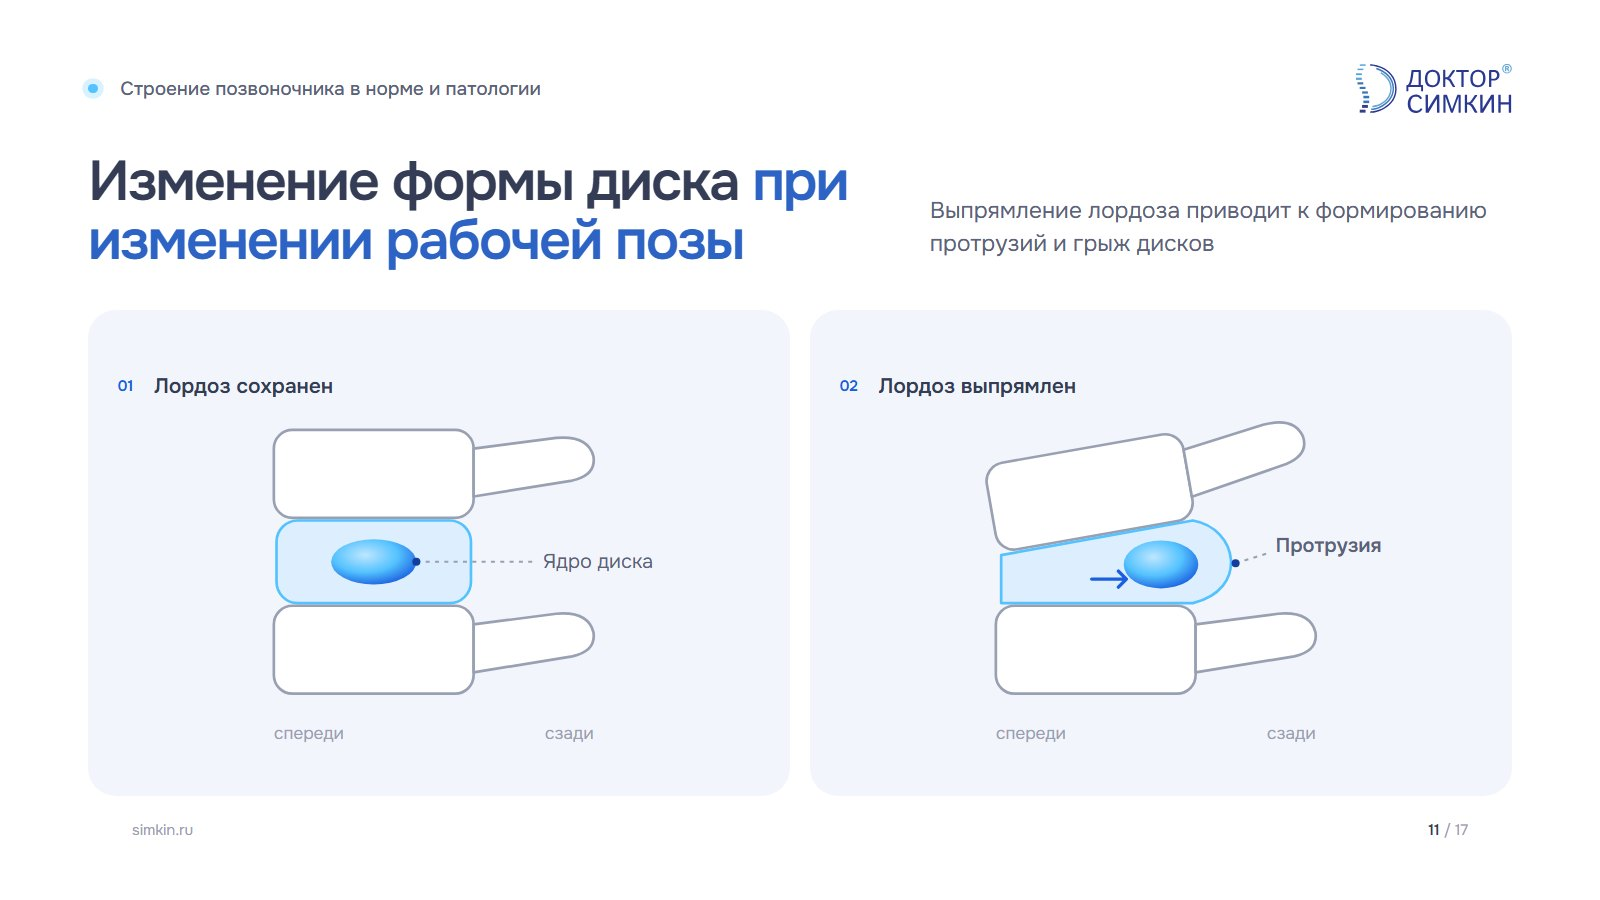
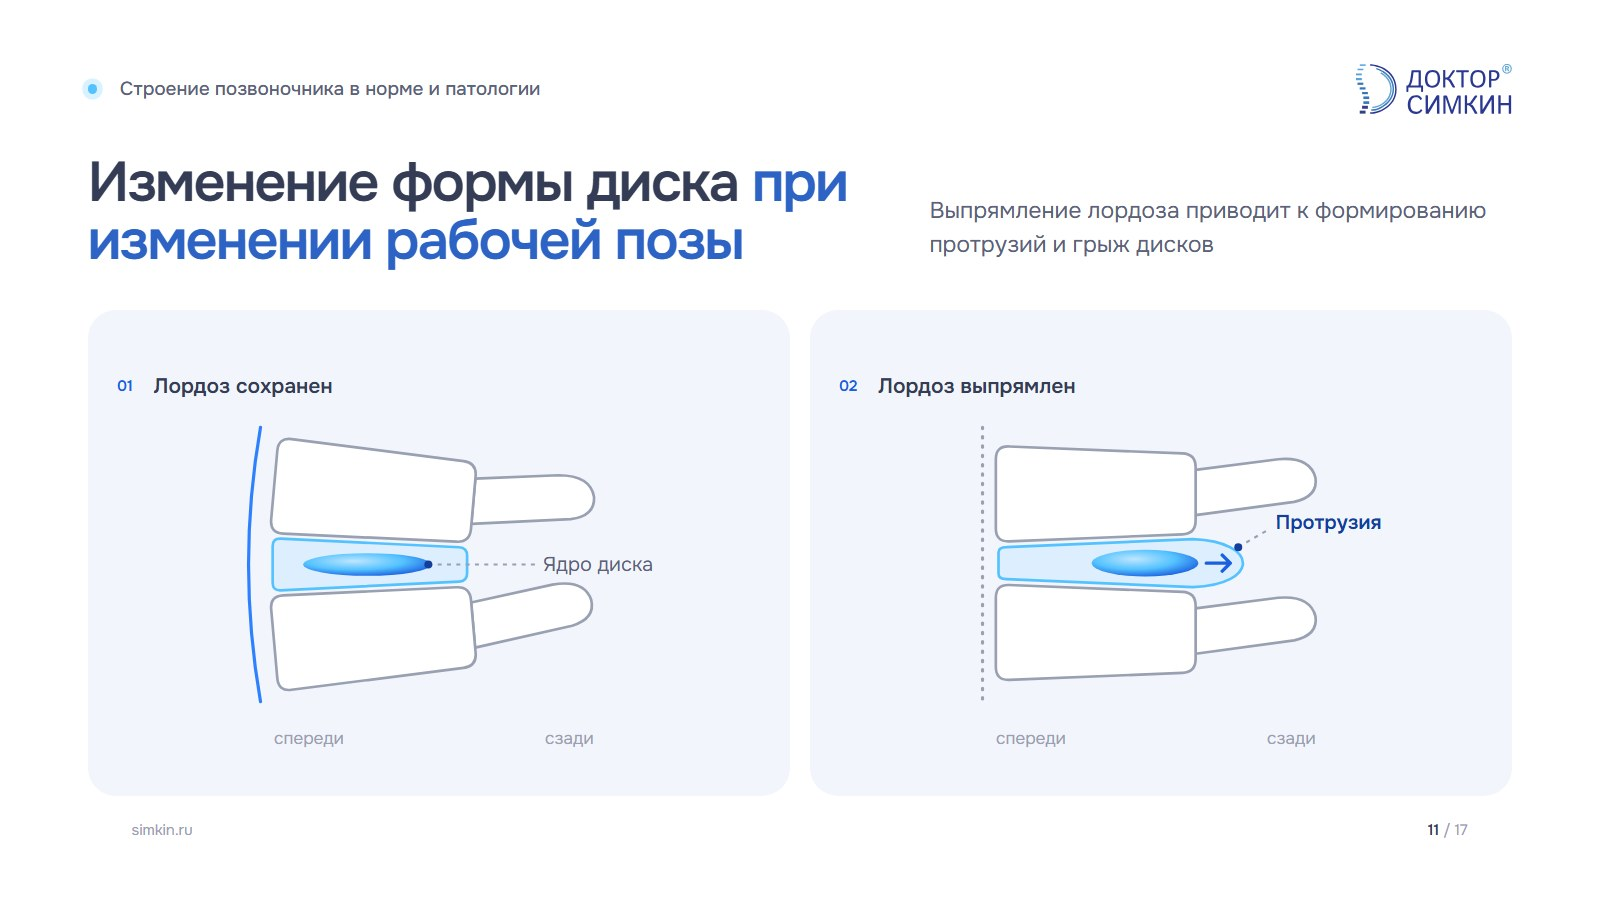
Слайд «Изменение формы диска»: правки заказчика
Ядро шире, диск ниже, передняя часть тела позвонка выше задней,
лордоз обозначен дугой (при выпрямлении дуги нет), стрелка смещения
ядра справа от него. Картинка на странице курса перерендерена.

diff --git a/slides/index.html b/slides/index.html
@@ -299,7 +299,7 @@ img{display:block;max-width:100%}
   <section class="pair">
     <div class="pair__head"><span class="pair__num">05</span><h2 class="pair__title">Изменение формы диска</h2></div>
     <div class="pair__grid">
-      <div class="before"><span class="tag">Было</span><img src="../design/assets/course/slide-02.jpg" alt="Исходный слайд «Изменение формы диска»" loading="lazy"><small>Схема перерисована: позвоночный сегмент сбоку, при выпрямлении лордоза ядро смещается назад и образует протрузию. Подписи «Ядро диска», «Протрузия», «спереди / сзади» добавлены для читаемости, их стоит показать заказчику.</small></div>
+      <div class="before"><span class="tag">Было</span><img src="../design/assets/course/slide-02.jpg" alt="Исходный слайд «Изменение формы диска»" loading="lazy"><small>Схема перерисована: позвоночный сегмент сбоку, при выпрямлении лордоза ядро смещается назад и образует протрузию. По правкам заказчика от 09.11: ядро шире, диск ниже, передняя часть тела позвонка выше задней, лордоз показан дугой (при выпрямлении дуги нет), стрелка смещения справа от ядра.</small></div>
       <div class="after">
         <span class="tag tag--new">Стало</span>
         <div class="slide-wrap"><div class="slide">
@@ -313,30 +313,31 @@ img{display:block;max-width:100%}
               <div class="disc">
                 <svg viewBox="0 0 360 290" aria-hidden="true">
                   <defs><radialGradient id="nucA" cx="40%" cy="35%" r="70%"><stop offset="0" stop-color="#BFE6FF"/><stop offset=".55" stop-color="#54C2FF"/><stop offset="1" stop-color="#1A5FE0"/></radialGradient></defs>
-                  <rect x="56" y="36" width="150" height="66" rx="14" fill="#fff" stroke="#98A0B2" stroke-width="2" stroke-linejoin="round"/><path d="M206 50 L268 42 Q292 40 296 56 Q298 70 280 74 L206 86 Z" fill="#fff" stroke="#98A0B2" stroke-width="2" stroke-linejoin="round"/>
-                  <rect x="58" y="104" width="146" height="62" rx="16" fill="#DDEFFF" stroke="#54C2FF" stroke-width="2" stroke-linejoin="round"/>
-                  <ellipse cx="131" cy="135" rx="32" ry="17" fill="url(#nucA)"/>
-                  <rect x="56" y="168" width="150" height="66" rx="14" fill="#fff" stroke="#98A0B2" stroke-width="2" stroke-linejoin="round"/><path d="M206 182 L268 174 Q292 172 296 188 Q298 202 280 206 L206 218 Z" fill="#fff" stroke="#98A0B2" stroke-width="2" stroke-linejoin="round"/>
-                  <path d="M163 135H252" stroke="#98A0B2" stroke-width="1.6" stroke-dasharray="3 4"/>
-                  <circle cx="163" cy="135" r="3" fill="#123E9E"/>
-                  <text x="258" y="140" font-family="Onest, sans-serif" font-size="15" fill="#5A6379">Ядро диска</text>
-                  <text x="56" y="268" font-family="Onest, sans-serif" font-size="13" fill="#98A0B2">спереди</text><text x="296" y="268" text-anchor="end" font-family="Onest, sans-serif" font-size="13" fill="#98A0B2">сзади</text>
+                  <path d="M46 34 Q28 137 46 240" fill="none" stroke="#2E80FF" stroke-width="2.4" stroke-linecap="round"/>
+                  <g transform="translate(131.0 84.0) rotate(5)"><path d="M75 -18 L137 -26 Q161 -28 165 -12 Q167 2 149 6 L75 16 Z" fill="#fff" stroke="#98A0B2" stroke-width="2" stroke-linejoin="round"/></g><path d="M58.6 51.6Q59.4 41.6 69.3 42.9L198.4 59.4Q208.3 60.7 207.5 70.6L204.0 110.5Q203.1 120.4 193.1 119.9L63.1 113.8Q53.1 113.3 54.0 103.4Z" fill="#fff" stroke="#98A0B2" stroke-width="2" stroke-linejoin="round"/>
+                  <path d="M55.1 123.3Q55.1 117.3 61.1 117.6L195.1 124.1Q201.1 124.4 201.1 130.4L201.1 143.6Q201.1 149.6 195.1 149.9L61.1 156.4Q55.1 156.7 55.1 150.7Z" fill="#DDEFFF" stroke="#54C2FF" stroke-width="2" stroke-linejoin="round"/>
+                  <ellipse cx="126" cy="137.0" rx="48" ry="8.5" fill="url(#nucA)"/>
+                  <g transform="translate(131.0 190.0) rotate(-5)"><path d="M75 -18 L137 -26 Q161 -28 165 -12 Q167 2 149 6 L75 16 Z" fill="#fff" stroke="#98A0B2" stroke-width="2" stroke-linejoin="round"/></g><path d="M54.0 170.6Q53.1 160.7 63.1 160.2L193.1 154.1Q203.1 153.6 204.0 163.5L207.5 203.4Q208.3 213.3 198.4 214.6L69.3 231.1Q59.4 232.4 58.6 222.4Z" fill="#fff" stroke="#98A0B2" stroke-width="2" stroke-linejoin="round"/>
+                  <path d="M172 137.0H252" stroke="#98A0B2" stroke-width="1.6" stroke-dasharray="3 4"/>
+                  <circle cx="172" cy="137.0" r="3" fill="#123E9E"/>
+                  <text x="258" y="142.0" font-family="Onest, sans-serif" font-size="15" fill="#5A6379">Ядро диска</text>
+                  <text x="56" y="272" font-family="Onest, sans-serif" font-size="13" fill="#98A0B2">спереди</text><text x="296" y="272" text-anchor="end" font-family="Onest, sans-serif" font-size="13" fill="#98A0B2">сзади</text>
                 </svg>
                 <div class="disc__cap"><span>01</span>Лордоз сохранен</div>
               </div>
               <div class="disc">
                 <svg viewBox="0 0 360 290" aria-hidden="true">
                   <defs><radialGradient id="nucB" cx="40%" cy="35%" r="70%"><stop offset="0" stop-color="#BFE6FF"/><stop offset=".55" stop-color="#54C2FF"/><stop offset="1" stop-color="#1A5FE0"/></radialGradient></defs>
-                  <g transform="rotate(-10 206 102)"><rect x="56" y="36" width="150" height="66" rx="14" fill="#fff" stroke="#98A0B2" stroke-width="2" stroke-linejoin="round"/><path d="M206 50 L268 42 Q292 40 296 56 Q298 70 280 74 L206 86 Z" fill="#fff" stroke="#98A0B2" stroke-width="2" stroke-linejoin="round"/></g>
-                  <path d="M60 130 L204 104 C238 110 246 156 204 166 L60 166 Z" fill="#DDEFFF" stroke="#54C2FF" stroke-width="2" stroke-linejoin="round"/>
-                  <ellipse cx="180" cy="137" rx="28" ry="18" fill="url(#nucB)"/>
-                  <path d="M140 137h-0" stroke="none"/>
-                  <path d="M128 148h26M148 142l6 6-6 6" fill="none" stroke="#1A5FE0" stroke-width="2.6" stroke-linecap="round" stroke-linejoin="round"/>
-                  <rect x="56" y="168" width="150" height="66" rx="14" fill="#fff" stroke="#98A0B2" stroke-width="2" stroke-linejoin="round"/><path d="M206 182 L268 174 Q292 172 296 188 Q298 202 280 206 L206 218 Z" fill="#fff" stroke="#98A0B2" stroke-width="2" stroke-linejoin="round"/>
-                  <path d="M236 136L262 128" stroke="#98A0B2" stroke-width="1.6" stroke-dasharray="3 4"/>
-                  <circle cx="236" cy="136" r="3" fill="#123E9E"/>
-                  <text x="266" y="128" font-family="Onest, sans-serif" font-size="15" fill="#5A6379" font-weight="600" fill="#123E9E">Протрузия</text>
-                  <text x="56" y="268" font-family="Onest, sans-serif" font-size="13" fill="#98A0B2">спереди</text><text x="296" y="268" text-anchor="end" font-family="Onest, sans-serif" font-size="13" fill="#98A0B2">сзади</text>
+                  <path d="M46 34 V240" fill="none" stroke="#98A0B2" stroke-width="2.4" stroke-linecap="round" stroke-dasharray="1 6"/>
+                  <g transform="translate(131.0 84.0) rotate(0)"><path d="M75 -18 L137 -26 Q161 -28 165 -12 Q167 2 149 6 L75 16 Z" fill="#fff" stroke="#98A0B2" stroke-width="2" stroke-linejoin="round"/></g><path d="M56.0 58.0Q56.0 48.0 66.0 48.4L196.0 53.6Q206.0 54.0 206.0 64.0L206.0 104.0Q206.0 114.0 196.0 114.4L66.0 119.6Q56.0 120.0 56.0 110.0Z" fill="#fff" stroke="#98A0B2" stroke-width="2" stroke-linejoin="round"/>
+                  <path d="M64.0 124.0L204.0 118.0C254.0 120.0 254.0 152.0 204.0 154.0L64.0 148.0Q58.0 148.0 58.0 144.0L58.0 128.0Q58.0 124.0 64.0 124.0Z" fill="#DDEFFF" stroke="#54C2FF" stroke-width="2" stroke-linejoin="round"/>
+                  <ellipse cx="168" cy="136.0" rx="40" ry="10" fill="url(#nucB)"/>
+                  <path d="M214 136.0h18M226 130.0l6 6-6 6" fill="none" stroke="#1A5FE0" stroke-width="2.6" stroke-linecap="round" stroke-linejoin="round"/>
+                  <g transform="translate(131.0 188.0) rotate(0)"><path d="M75 -18 L137 -26 Q161 -28 165 -12 Q167 2 149 6 L75 16 Z" fill="#fff" stroke="#98A0B2" stroke-width="2" stroke-linejoin="round"/></g><path d="M56.0 162.0Q56.0 152.0 66.0 152.4L196.0 157.6Q206.0 158.0 206.0 168.0L206.0 208.0Q206.0 218.0 196.0 218.4L66.0 223.6Q56.0 224.0 56.0 214.0Z" fill="#fff" stroke="#98A0B2" stroke-width="2" stroke-linejoin="round"/>
+                  <path d="M238 124.0L262 110.0" stroke="#98A0B2" stroke-width="1.6" stroke-dasharray="3 4"/>
+                  <circle cx="238" cy="124.0" r="3" fill="#123E9E"/>
+                  <text x="266" y="110.0" font-family="Onest, sans-serif" font-size="15" font-weight="600" fill="#123E9E">Протрузия</text>
+                  <text x="56" y="272" font-family="Onest, sans-serif" font-size="13" fill="#98A0B2">спереди</text><text x="296" y="272" text-anchor="end" font-family="Onest, sans-serif" font-size="13" fill="#98A0B2">сзади</text>
                 </svg>
                 <div class="disc__cap"><span>02</span>Лордоз выпрямлен</div>
               </div>

diff --git a/design/kurs-po-ergonomike.html b/design/kurs-po-ergonomike.html
@@ -339,7 +339,7 @@
     <div class="dk-prog" data-tabs>
     <div class="dk-mods">
       <article class="dk-mod" data-tab data-rv>
-        <div class="dshot dshot--slide"><picture><source srcset="assets/course/v2/slide-02.webp?v=2" type="image/webp"><img src="assets/course/v2/slide-02.jpg?v=2" alt="Слайд курса «Изменение формы диска при изменении рабочей позы»" width="800" height="450" loading="lazy" decoding="async"></picture></div>
+        <div class="dshot dshot--slide"><picture><source srcset="assets/course/v2/slide-02.webp?v=3" type="image/webp"><img src="assets/course/v2/slide-02.jpg?v=3" alt="Слайд курса «Изменение формы диска при изменении рабочей позы»" width="800" height="450" loading="lazy" decoding="async"></picture></div>
         <div class="dk-mod__body">
           <span class="dk-mod__n">Раздел 1</span>
           <h3>Поза и&nbsp;тело</h3>
